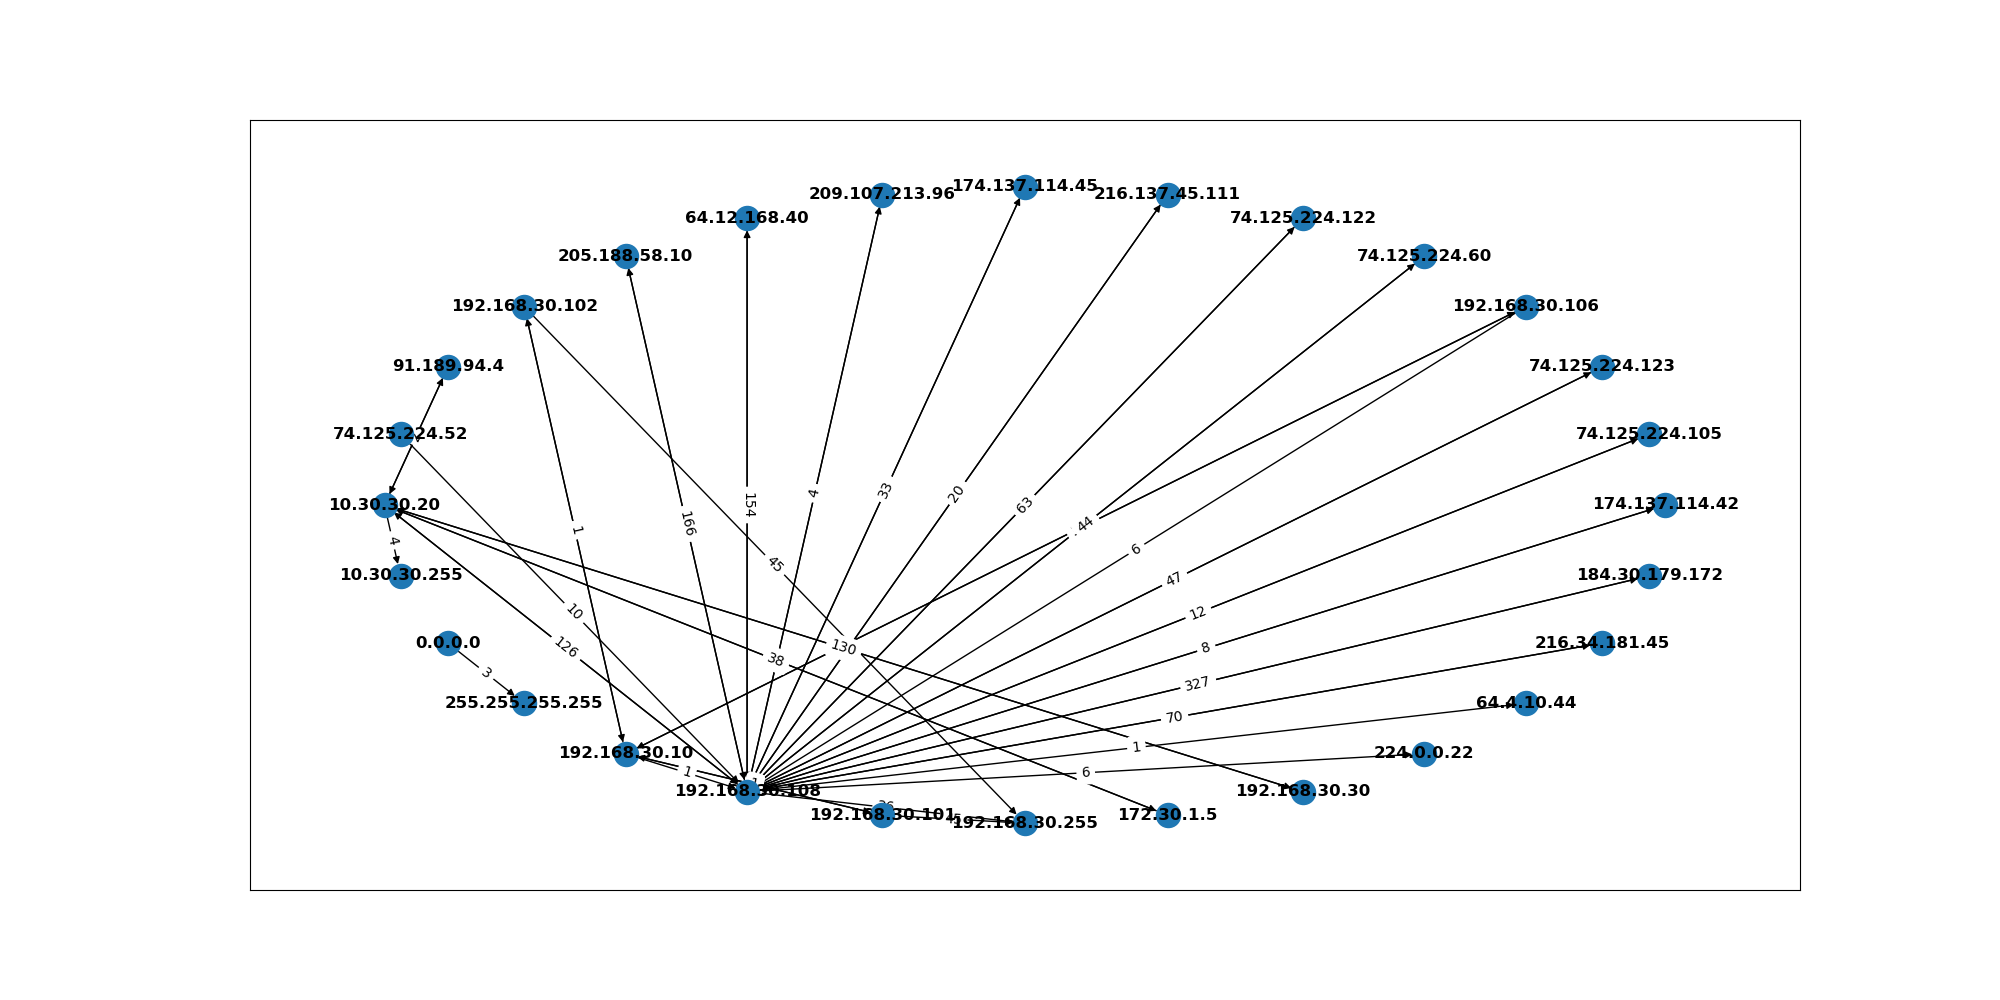
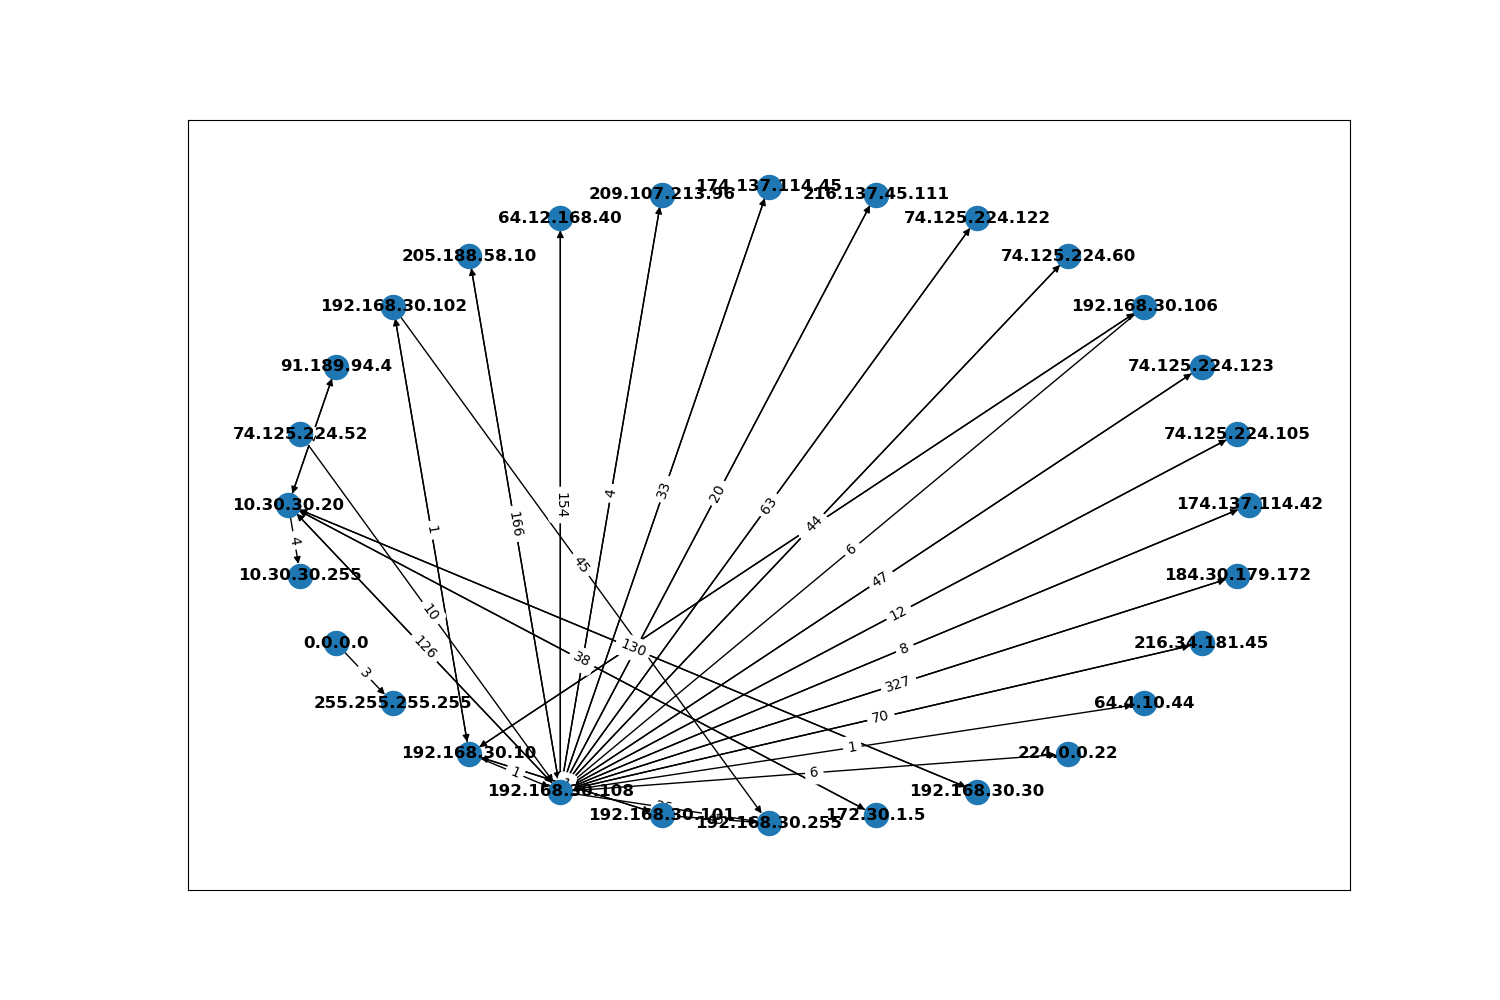
update

diff --git a/graph_builder.py b/graph_builder.py
@@ -1,13 +1,13 @@
 """Used modules"""
-import socket
 import sys
 from typing import Any
 import matplotlib.pyplot as plt
 import networkx as nx
 from pcap_reader import main
+from pcap_analyzer import analyzer
 
 
-def graph(pcap: Any) -> None:
+def graph(flow: dict[str, int]) -> None:
     """
     Generate a directed IP communication graph from a pcap packet list.
     Each packet is evaluated based on its source and destination IP address.
@@ -16,24 +16,12 @@ def graph(pcap: Any) -> None:
     and visualizes it using matplotlib. Graph statistics are printed to stdout.
     """
     try:
-        counts: dict[tuple[str, str], int] = {}
-        plt.figure(figsize=(20, 10))
-        for unused_ts, i in pcap:
-            eth = i
-            ip = eth.data
-            source_ip = socket.inet_ntoa(ip.src)
-            destination_ip = socket.inet_ntoa(ip.dst)
-            key = (source_ip, destination_ip)
-            counts[key] = counts.get(key, 0) + 1
-    except AttributeError as e:
-        sys.stderr.write(f"Invalid packet structure: {e}\n")
-        return
-    except OSError as e:
-        sys.stderr.write(f"IP conversion error: {e}\n")
-        return
-    try:
+        plt.figure(figsize=(15, 10))
         ip_graph: Any = nx.DiGraph()
-        edge_list = [(src, dst, count) for (src, dst), count in counts.items()]
+        edge_list = []
+        for path, count in flow.items():
+            src, dst = path.split("->")
+            edge_list.append((src, dst, count))
         ip_graph.add_weighted_edges_from(edge_list)
         pos = nx.shell_layout(ip_graph)
         nx.draw_networkx(ip_graph, pos, with_labels=True, font_weight='bold')
@@ -53,4 +41,8 @@ def graph(pcap: Any) -> None:
 if __name__ == "__main__":
     PCAP = "evidence-packet-analysis.pcap"
     packets = main(PCAP, printout=False, brkfirst=False)
-    graph(packets)
+    flows = analyzer(packets)
+    sorted_flows = sorted(flows.items(), key=lambda x: x[1], reverse=True)
+    for k, v in sorted_flows:
+        print(k, v)
+    graph(flows)

diff --git a/pcap_analyzer.py b/pcap_analyzer.py
@@ -5,7 +5,7 @@ from typing import Any
 from pcap_reader import main
 
 
-def analyzer(pcap: Any) -> None:
+def analyzer(pcap: Any) -> dict[str, int]:
     """Analyze packet data and print IP flow statistics.
     Extracts source and destination IP pairs from packets,
     counts occurrences, and displays results sorted by frequency."""
@@ -22,9 +22,7 @@ def analyzer(pcap: Any) -> None:
         sys.stderr.write(f"Invalid packet structure: {e}\n")
     except OSError as e:
         sys.stderr.write(f"IP address conversion error: {e}\n")
-    sorted_flows = sorted(flows.items(), key=lambda x: x[1], reverse=True)
-    for key, value in sorted_flows:
-        print(f"{key} - {value}")
+    return flows
 
 
 if __name__ == "__main__":
